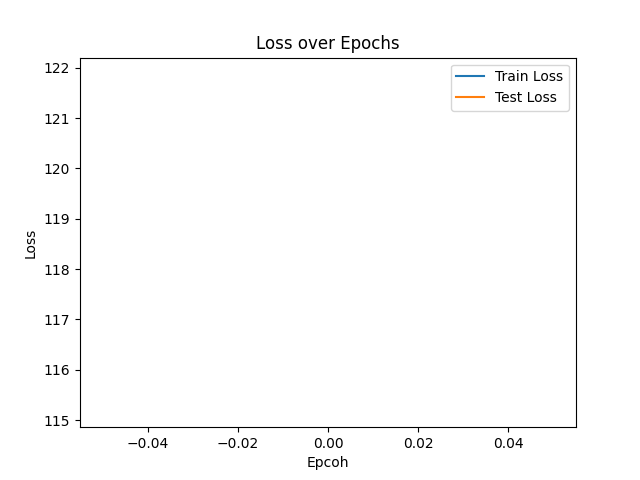
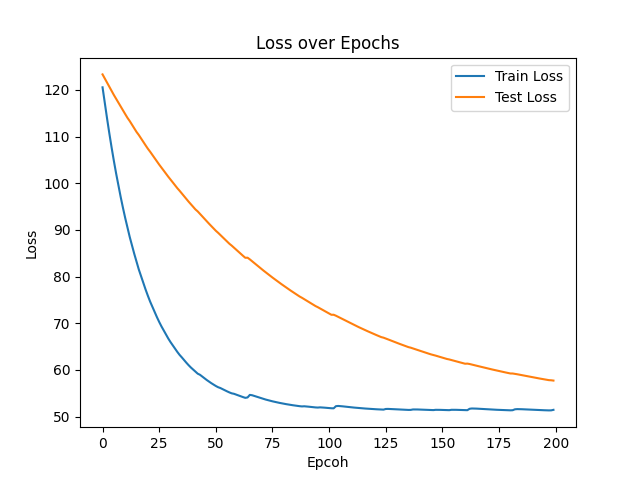
fix(rnn): added activation function
forgot to add it before, and it has been causing values to overflow for a while now

diff --git a/src/rnn.c b/src/rnn.c
@@ -1,8 +1,24 @@
 #include <math.h>
 #include "rnn.h"
 #include "matrixMath.h"
+
 // a lot of this code takes insporation from Andrej Karpathy's blog https://karpathy.github.io/2015/05/21/rnn-effectiveness/
 // in a lot of cases it is a c implementation of the minimal character-level RNN language model in Python/numpy which he made.
+
+int ContainsNan(matrix* m) {
+    for (int rowi = 0; rowi < m->size[0]; rowi++)
+    {
+        for (int coli = 0; coli < m->size[1]; coli++)
+        {
+            if (!isfinite(Matrix_Get(m, rowi, coli))) {
+                return 1;
+            }
+        }
+        
+    }
+    return 0;
+}
+
 
 void Clip(matrix* m, double min, double max) {
     for (int rowi = 0; rowi < m->size[0]; rowi++)
@@ -103,6 +119,9 @@ gradient_info* LossFunc(rnn* rnn, matrix* input, matrix* target, matrix* hprev) 
             Matrix_Set(ps, rowi, t, Matrix_Get(ys, rowi, t) / sum);
         }
 
+        if (ContainsNan(ps)) {
+            printf("NaN detected in ps at time %d\n", t);
+        }
         // testing method
         int ix=0;
         double max = 0;
@@ -113,7 +132,10 @@ gradient_info* LossFunc(rnn* rnn, matrix* input, matrix* target, matrix* hprev) 
             ix = i;
         }
         
-        correct_count += Matrix_Get(target, ix, t);
+        if (ix == 0) {
+            correct_count++;
+        }
+        // correct_count += Matrix_Get(target, ix, t);
 
         // softmax loss
         for (int rowi = 0; rowi < ps->size[0]; rowi++)
@@ -122,7 +144,7 @@ gradient_info* LossFunc(rnn* rnn, matrix* input, matrix* target, matrix* hprev) 
         }
         int n;
     }
-    //printf("\033[KCorrect count: %d/%d\n\033[1A", correct_count, rnn->seqLen);
+    // printf("\033[KCorrect count: %d/%d\n\033[1A", correct_count, rnn->seqLen);
 
     // === gradient ===
     // gradient of matrices
@@ -283,7 +305,7 @@ int ApplyAdagrad(matrix* parameter, matrix* dparameter, matrix* memParameter, do
     return EXIT_SUCCESS;
 }
 
-int TrainRNN(rnn* r, training_data* epoch, int limit, void (*onComplete)(matrix*, double, double)) {
+int TrainRNN(rnn* r, training_data* epoch, int limit, void (*onComplete)(double, double)) {
     // checks
     if (epoch->input->size[1] != epoch->output->size[1]) {
         printf("input cols and output cols don't match\n");
@@ -374,14 +396,16 @@ int TrainRNN(rnn* r, training_data* epoch, int limit, void (*onComplete)(matrix*
             free(gi);
 
             batchIter++;
+            if (batchIter > epoch->iterations) {
+                batchIter = epoch->iterations;
+            }
             for (int i = 0; i < (int)round(((float)batchIter/epoch->iterations)*batchBarSize); i++)
             {
                 batchBar[i]='#';
             }
             printf("\033[KbatchIter: %d [%s] SmoothLoss: %lf\n\033[1A", batchIter, batchBar, smoothLoss);
         }
-        printf("\n");
-
+        printf("\033[1A\033[K");
         // test
         Matrix_Free(hprev);
         hprev = Matrix_Create(r->hiddenSize, 1);
@@ -413,9 +437,9 @@ int TrainRNN(rnn* r, training_data* epoch, int limit, void (*onComplete)(matrix*
         batch_position = 0;
         batch_size = (int)round(((float)epoch->input->size[1]) / epoch->iterations);
         
-        matrix* results = evaluate(r);
-        onComplete(results, smoothLoss, test_smoothLoss);
-        Matrix_Free(results);
+        // matrix* results = evaluate(r, epoch->testInput);
+        onComplete(smoothLoss, test_smoothLoss);
+        // Matrix_Free(results);
         
         Matrix_Free(hprev);
         hprev = Matrix_Create(r->hiddenSize, 1);
@@ -467,13 +491,24 @@ int FreeWeights(rnn* r) {
 }
 
 
-matrix* evaluate(rnn* r) {
-    matrix* x = Matrix_Create(r->inputSize, 1);
-    Matrix_Set(x, 0, 0, 1); // x represents the first character in the dataset
+matrix* evaluate(rnn* r, matrix* inputs) {
+
+    if (inputs->size[0] != r->inputSize) {
+        printf("Input size does not match rnn input size\n");
+        return NULL;
+    }
+    if (inputs->size[1] != r->seqLen) {
+        printf("Input seqLen does not match rnn seqLen %d %d\n", inputs->size[1], r->seqLen);
+        return NULL;
+    }
+
     matrix* h = Matrix_Create(r->hiddenSize, 1);
-    matrix* result = Matrix_Create(r->seqLen, 1);
+    matrix* result = Matrix_Create(r->outputSize, r->seqLen);
+
     for (int t = 0; t < r->seqLen; t++)
     {
+        matrix* x = Matrix_VectorCol(inputs, t);
+
         matrix* Wxh = Matrix_Create(1, 1);
         Matrix_Copy(r->Wxh, Wxh);
         matrix* Whh = Matrix_Create(1, 1);
@@ -484,7 +519,7 @@ matrix* evaluate(rnn* r) {
         Matrix_Add(Wxh, r->bh);
         for (int rowi = 0; rowi < h->size[0]; rowi++)
         {
-            Matrix_Set(h, rowi, 0, Matrix_Get(Wxh, rowi, 0));
+            Matrix_Set(h, rowi, 0, tanh(Matrix_Get(Wxh, rowi, 0)));
         }
 
         matrix* Why = Matrix_Create(1, 1);
@@ -492,8 +527,10 @@ matrix* evaluate(rnn* r) {
         Matrix_DotProd(Why, h);
         Matrix_Add(Why, r->by);
 
+        // Why is size of outputSize x 1
         matrix* p = Matrix_Create(Why->size[0], Why->size[1]);
 
+        
         // for probobilities
         double sum = 0;
         for (int rowi = 0; rowi < Why->size[0]; rowi++)
@@ -506,28 +543,21 @@ matrix* evaluate(rnn* r) {
         {
             Matrix_Set(p, rowi, 0, Matrix_Get(Why, rowi, 0) / sum);
         }
+
         
-        double rand_num = (double)rand() / RAND_MAX;
         int ix=0;
         double max = 0;
         for (int i = 0; i < p->size[0]; i++)
         {
             if (max >= Matrix_Get(p, i, 0) ) {
-                //max = Matrix_Get(p, i, 0);
-                //ix = i;
                 continue;
             }
-            //if (Matrix_Get(p, i, 0) >= rand_num) {
-            //    continue;
-            //}
             max = Matrix_Get(p, i, 0);
             ix = i;
         }
 
-        Matrix_Set(result, t, 0, ix);
+        Matrix_Set(result, ix, t, 1);
         Matrix_Free(x);
-        x = Matrix_Create(r->inputSize, 1);
-        Matrix_Set(x, ix, 0, 1);
         
         Matrix_Free(p);
         Matrix_Free(Why);
@@ -535,7 +565,6 @@ matrix* evaluate(rnn* r) {
         Matrix_Free(Wxh);
     }
     
-    Matrix_Free(x);
     Matrix_Free(h);
     return result;
 }

diff --git a/src/main.c b/src/main.c
@@ -7,10 +7,69 @@
 #include "rnn.h"
 
 FILE* lossFile;
-void Sample(matrix* results, double smoothLoss, double test_smoothLoss) {
+void Sample(double smoothLoss, double test_smoothLoss) {
    fprintf(lossFile, "%lf,%lf\n", smoothLoss, test_smoothLoss); 
 }
 
+void CreateConfusionMatrix(rnn* r, training_data* epoch) {
+    lossFile = fopen("Output/ConfusionMatrixValues.csv", "w");
+    fprintf(lossFile, "TR,PR,TW,PW\n");
+
+    r->seqLen = epoch->testInput->size[1];
+    printf("Evaluating confusion matrix on test data with seqLen: %d\n", r->seqLen);
+    matrix* results = evaluate(r, epoch->testInput);
+    // confusion matrix values
+    int true_red = 0;
+    int pred_red = 0; // wrong prediction
+    int true_white = 0;
+    int pred_white = 0; // wrong prediction
+
+    for (int t = 0; t < r->seqLen; t++)
+    {
+        // find predicted class
+        int pred_class = -1;
+        double max_prob = 0;
+        for (int rowi = 0; rowi < results->size[0]; rowi++)
+        {
+            if (Matrix_Get(results, rowi, t) > max_prob) {
+                max_prob = Matrix_Get(results, rowi, t);
+                pred_class = rowi;
+            }
+        }
+
+        // find true class
+        int true_class = -1;
+        for (int rowi = 0; rowi < epoch->testOutput->size[0]; rowi++)
+        {
+            if (Matrix_Get(epoch->testOutput, rowi, t) == 1) {
+                true_class = rowi;
+                break;
+            }
+        }
+
+        if (true_class == 0) {
+            // true red
+            if (pred_class == 0) {
+                true_red++;
+            } else {
+                pred_white++;
+            }
+        } else {
+            // true white
+            if (pred_class == 1) {
+                true_white++;
+            } else {
+                pred_red++;
+            }
+        }
+    }
+    fprintf(lossFile, "%d,%d,%d,%d\n", true_red, pred_red, true_white, pred_white);
+
+
+    Matrix_Free(results);
+
+    fclose(lossFile);
+}
 int main() {
     // limiting amount of observations
     int limit = 10000;
@@ -157,10 +216,9 @@ int main() {
     }
     fclose(fp);
     
-    printf("input size: %d\n", one_hot_size);
     rnn* r = malloc(sizeof(rnn));
     r->inputSize = X->size[0];
-    r->hiddenSize = 100;
+    r->hiddenSize = 50;
     r->outputSize = Y->size[0];
     r->learningRate = 1e-1;
     InitializeWeights(r);
@@ -176,11 +234,15 @@ int main() {
     lossFile = fopen("Output/output.csv", "w");
     fprintf(lossFile, "TrainLoss,TestLoss\n"); 
     printf("======= training started =======\n");
-    int result = TrainRNN(r, epoch, 100, &Sample);
+    int result = TrainRNN(r, epoch, 200, &Sample);
     printf("======= training finished with exit code: %d =======\n", result);
     fclose(lossFile);
 
+    CreateConfusionMatrix(r, epoch);    
+
     system("python3 Output/createGraphs.py");
+
+    printf("Graphs have been saved to ./Output\n");
     
     FreeWeights(r);
     free(r);

diff --git a/Output/createGraphs.py b/Output/createGraphs.py
@@ -1,5 +1,7 @@
 import matplotlib.pyplot as plt
 import pandas as pd
+import itertools
+import numpy as np
 
 data = pd.read_csv('Output/output.csv')
 
@@ -11,4 +13,37 @@ plt.xlabel('Epcoh')
 plt.ylabel('Loss')
 plt.title('Loss over Epochs')
 plt.savefig('Output/training_loss.png')
+# plt.show()
+
+plt.clf()
+
+# Big thanks to https://how2matplotlib.com/how-can-i-plot-a-confusion-matrix-in-matplotlib for showing 
+# how to plot a confusion matrix in matplotlib, couldn't have done it without you guys
+
+confusion_data = pd.read_csv('Output/ConfusionMatrixValues.csv')
+
+cm = np.array([[confusion_data.iloc[0,0], confusion_data.iloc[0,3]],
+               [confusion_data.iloc[0,1], confusion_data.iloc[0,2]]])
+cm_noramalized = cm.astype('float') / cm.sum(axis=1)[:, np.newaxis]
+
+classes = ['Red Wine', 'White Wine']
+
+plt.imshow(cm_noramalized, interpolation='nearest', cmap=plt.cm.Wistia)
+plt.title("Normalized Confusion Matrix for Wine Classification")
+plt.colorbar()
+tick_marks = np.arange(len(classes))
+plt.xticks(tick_marks, classes, rotation=45)
+plt.yticks(tick_marks, classes)
+
+# fmt = '.2f' if normalize else 'd'
+thresh = cm_noramalized.max() / 2.
+for i, j in itertools.product(range(cm_noramalized.shape[0]), range(cm_noramalized.shape[1])):
+    plt.text(j, i, "{:0.2f}".format(cm_noramalized[i, j]),
+              horizontalalignment="center",
+              color="white" if cm_noramalized[i, j] > thresh else "black")
+
+plt.tight_layout()
+plt.ylabel('True label')
+plt.xlabel('Predicted label')
+plt.savefig('Output/confusionMatrix.png')
 plt.show()

diff --git a/src/rnn.h b/src/rnn.h
@@ -48,8 +48,9 @@ struct gradient_info {
 
 /// @brief returns a matrix with the fitted y, rnn seqlen determines size
 /// @param r the model
+/// @param inputs x values, ensure there's one for each time step
 /// @return fitted y
-matrix* evaluate(rnn* r);
+matrix* evaluate(rnn* r, matrix* inputs);
 
 
 /// @brief Calculates the loss for a function. Only works for classification atm
@@ -71,7 +72,7 @@ double MSE_Loss(matrix* output, matrix* target);
 /// @param epoch epoch data
 /// @param limit how many times to go through epoch
 /// @return exit status
-int TrainRNN(rnn* r, training_data* epoch, int limit, void (*onComplete)(matrix*, double, double));
+int TrainRNN(rnn* r, training_data* epoch, int limit, void (*onComplete)(double, double));
 
 ///@brief tests the rnn on the given epoch and returns the loss
 double TestRNN(rnn* r, matrix* input, matrix* target, matrix* hprev);

diff --git a/data/FormatData.py b/data/FormatData.py
@@ -17,6 +17,10 @@ idx_white = wine_white.index.to_list()
 np.random.shuffle(idx_white)
 wine_white = wine_white.loc[idx_white].reset_index(drop=True)
 
+# drop rows from white wine to balance dataset
+wine_white = wine_white.iloc[:len(wine_red)].reset_index(drop=True)
+
+
 # split into train and test sets
 train_portion = 0.8
 test_portion = 1 - train_portion

diff --git a/README.md b/README.md
@@ -13,11 +13,11 @@ There are some functions used which are for linux, so it won't run on windows.
 
 ### Output
 
-It will train on the dataset for a 100 epochs, with around 5.5k observations per epoch. \
-Afterwards it'll run a python script to create a graph of the loss over time.
+It will train on the dataset for a 200 epochs, with around 2.5k observations per epoch. \
+Afterwards it'll run a python script to create a few graphs.
 
 It's interesting to note how the smooth loss for the *testing-set* reduces slower than the *training-set*, but this makes sense if you take into account how the smooth loss is being updated for both. \
-The formula is: `smoothloss = 0.999 * smoothloss + 0.001 * loss`, and since the *training-set* is bigger, it'll have more batches to update the smooth loss with, so it'll change faster than *testing-set*.
+The formula is: `smoothloss = 0.999 * smoothloss + 0.001 * softmax loss`, and since the *training-set* is bigger, it'll have more batches to update the smooth loss with, so it'll change faster than *testing-set*.
 
 When the *testing-set* and *training-set* have the same amount of batches (but different sequence lengths), you can see an almost opposite effect, where the test loss drops faster than the train loss.
 
@@ -25,12 +25,15 @@ When the *testing-set* and *training-set* have the same amount of batches (but d
 ![Loss Over Epoch normal](Output/training_lossExample.png)
 #### Example with different Sequence Lengths, but same amount of batches
 ![Loss Over Epoch with different seq length, but same number of batches](Output/training_lossExample2.png)
+#### Confusion Matrix
+![Confusing Matrix](Output/confusionMatrixExample.png)
 
 ### Limitations
 
 None of the variables have been whitened or normalized, so there are most likely some issues because of that.
-The loss function for the graphs aren't standerdized
+
 
 ## Other uses
 
 Because the Gradient uses Softmax loss, it's only really ideal for classification tasks.
+
